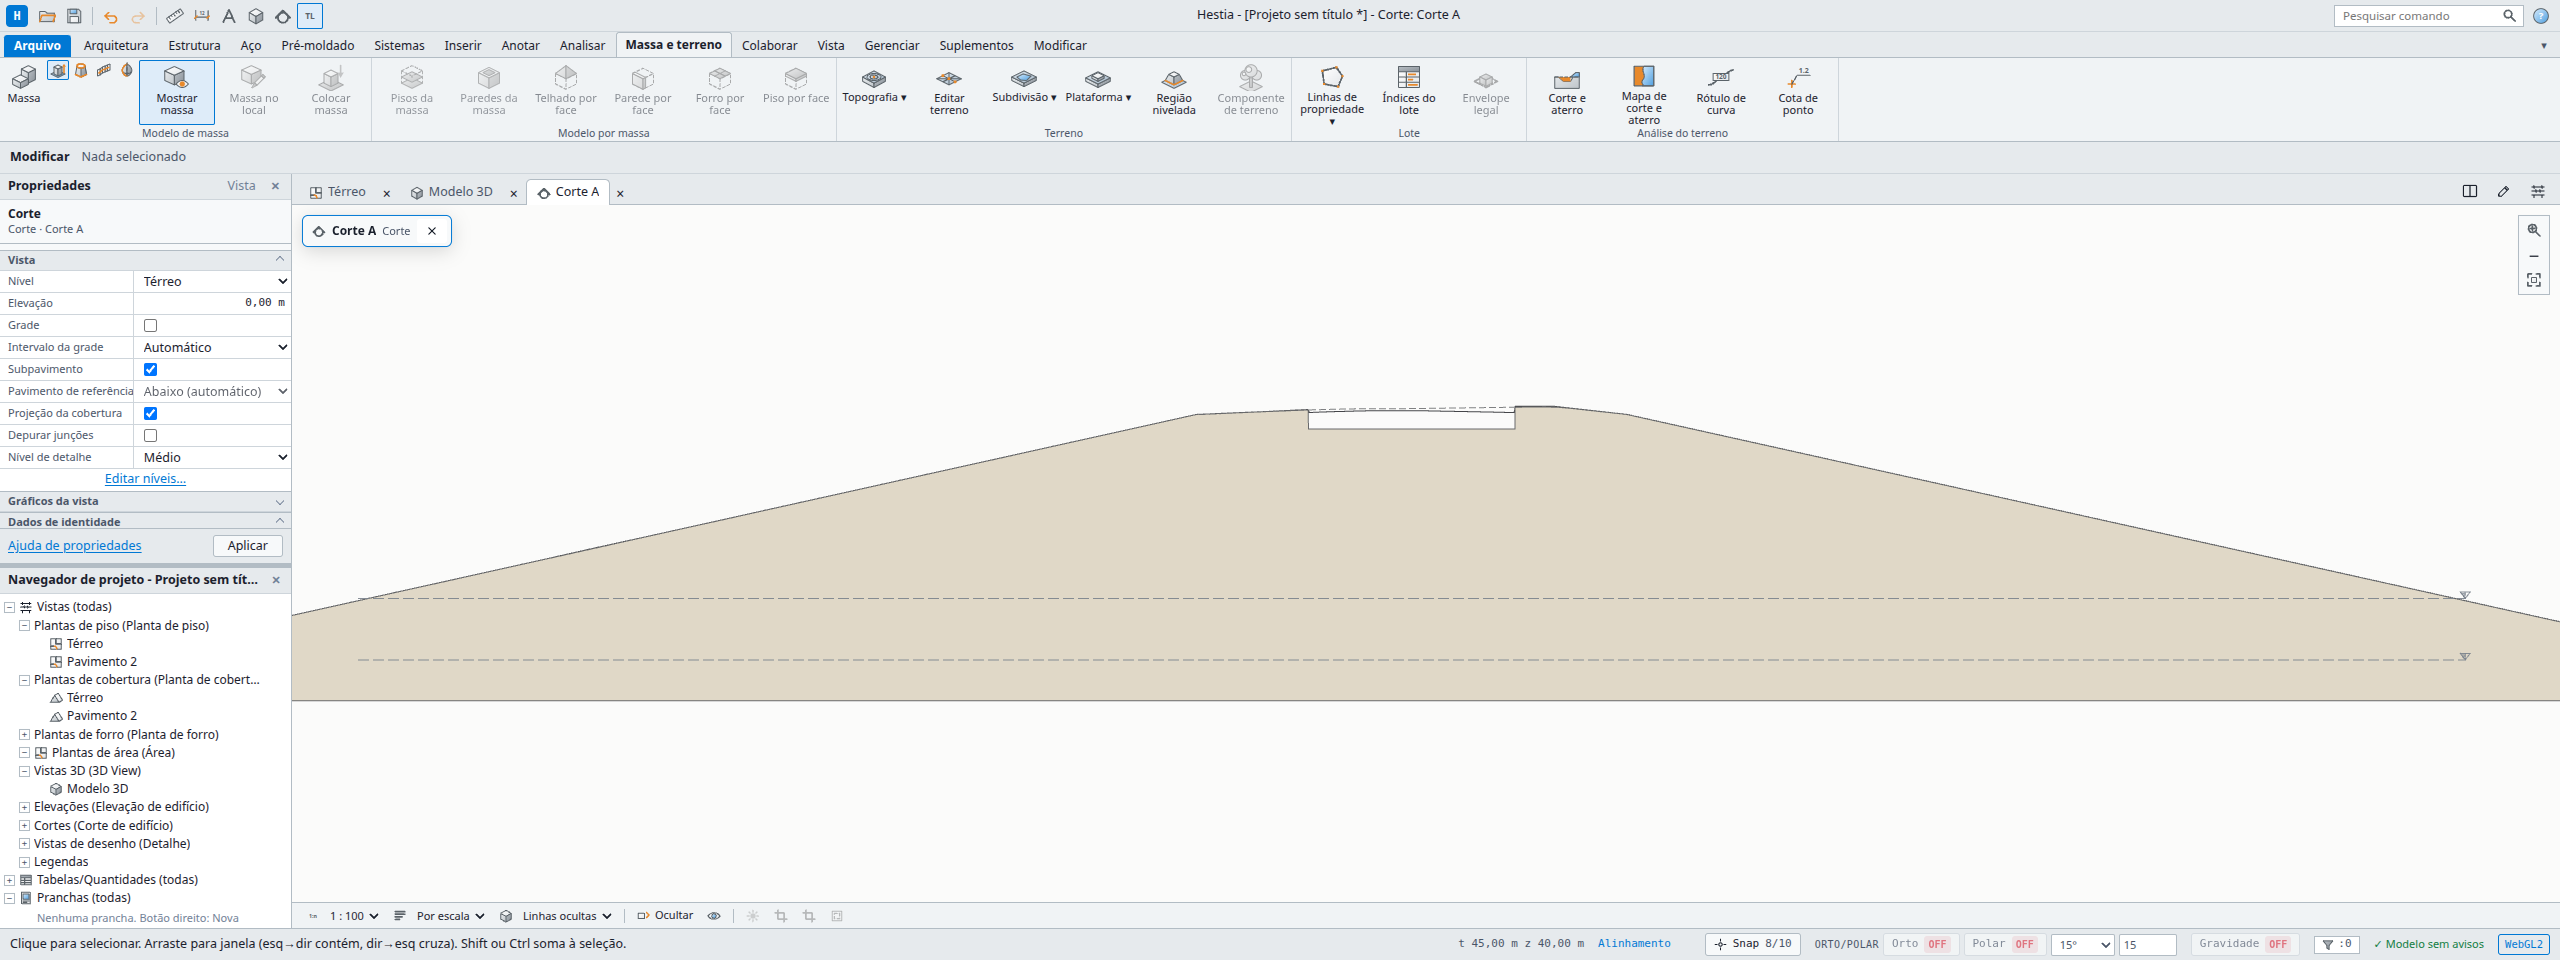
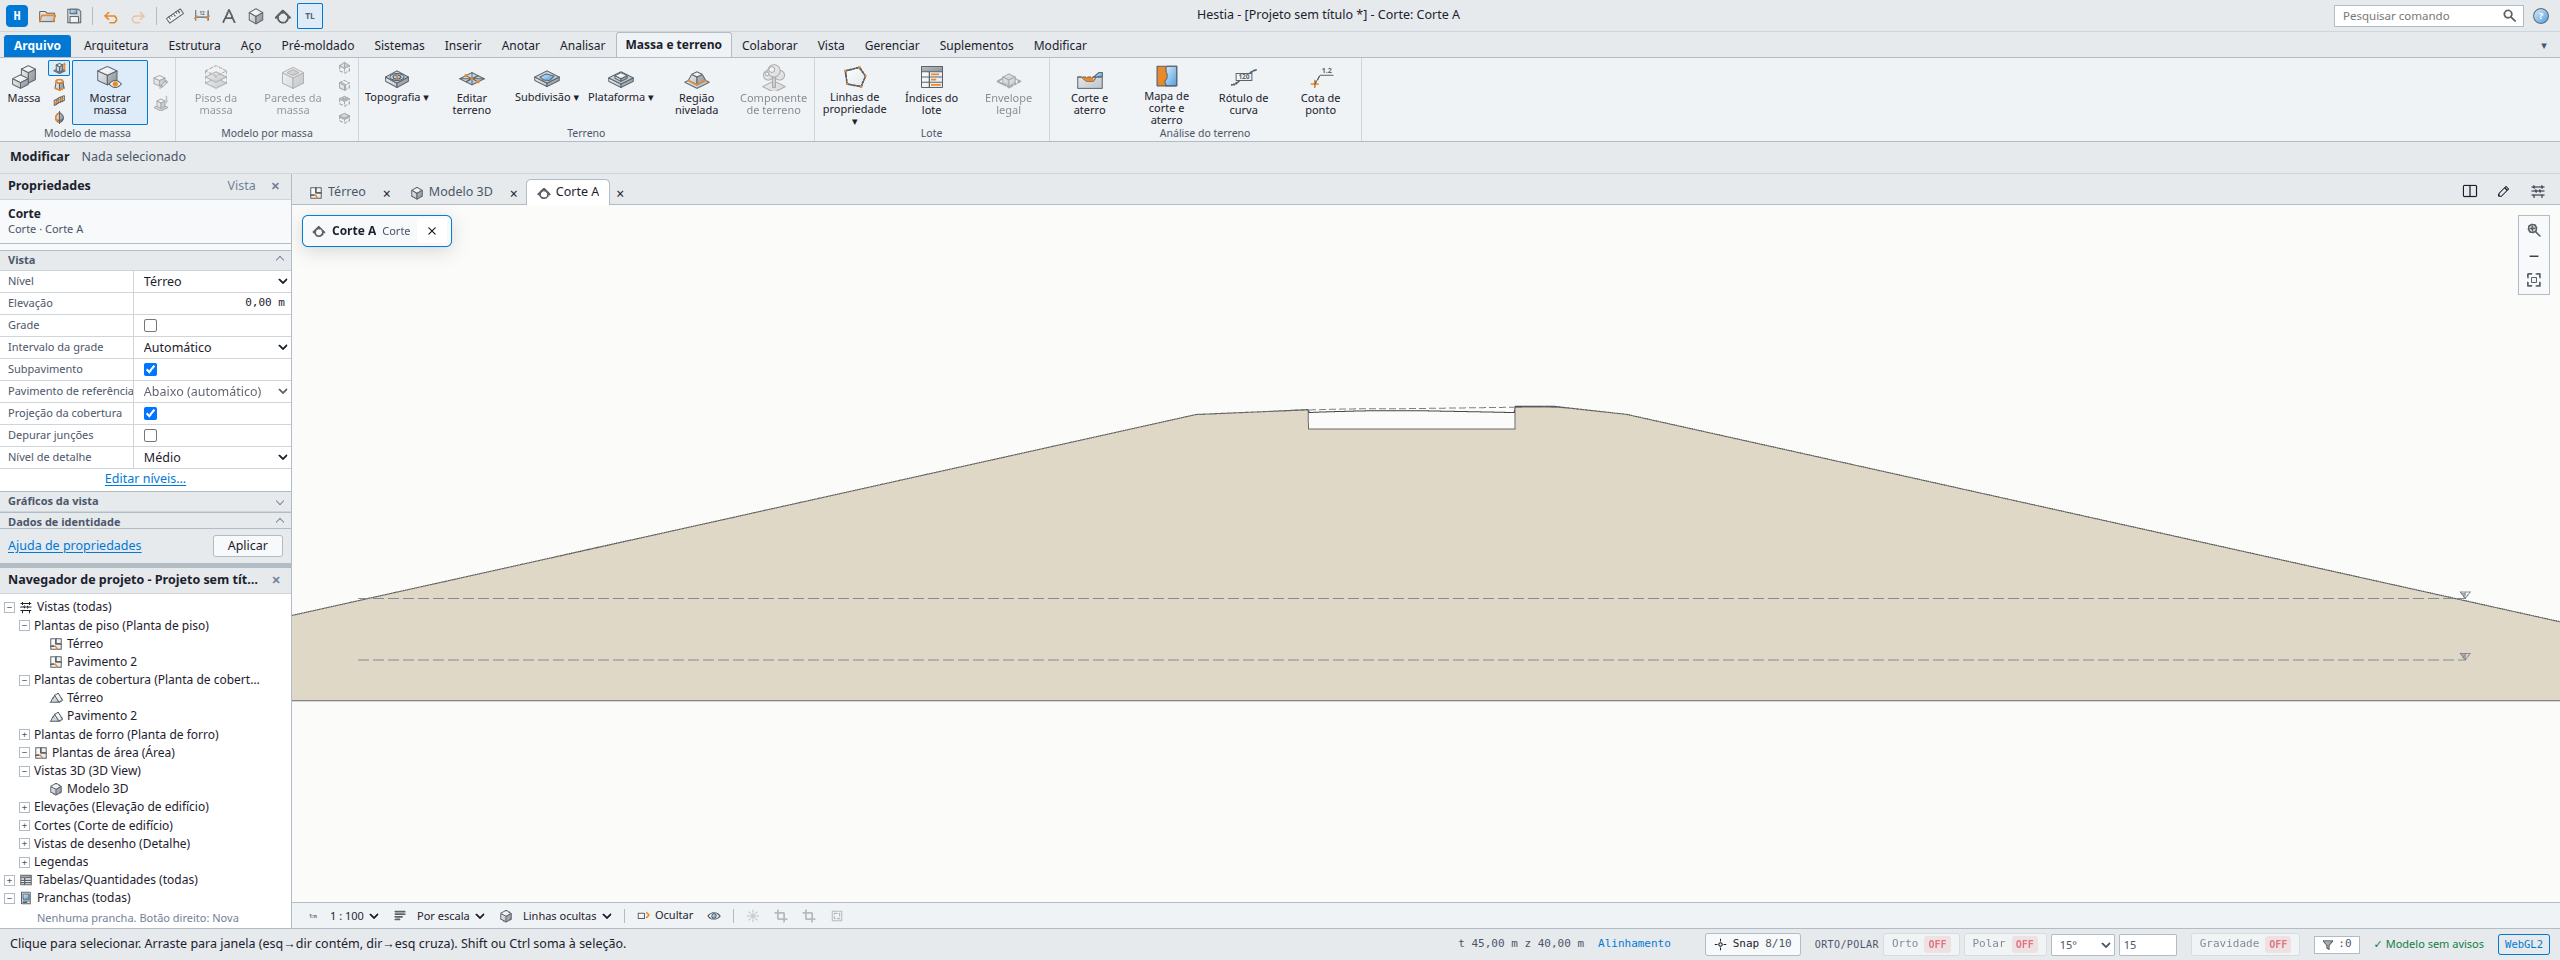
feat: botao Componente da aba Arquitetura abre o fluxo de blocos (importar ou colocar)

Changed region(s): [[0.0, 0.0625, 0.7188, 0.1562]]

diff --git a/apps/web/src/ui/ribbon/actions.ts b/apps/web/src/ui/ribbon/actions.ts
@@ -1,12 +1,13 @@
 /* eslint-disable max-lines -- a faixa concentra as ações pontuais (cada uma com rótulo bilíngue, dica e guarda); dividir depois. */
 import { definirMapaCorteAterro } from '@hestia/engine';
 import { copyLinkOf, isBeam, isCeiling, isColumn, isFloor, isFooting, isOpening, isRamp, isRoof, isRoom, isSlab, isStair, isTerrain, isWall, type Element, type Id, type Project, type Ramp, type Wall } from '@hestia/model';
-import { criarGuardaCorpoDeEscada, criarGuardaCorpoDeRampa, mensagensDeGuardaCorpo, placeFootingsAtColumns, TerrainRegionTool, type PerimeterModifyKind, type PredefinicaoRegiao, type ShortcutCommand, type ToolEnv, type ToolOptions } from '@hestia/tools';
+import { furnitureToPlace, criarGuardaCorpoDeEscada, criarGuardaCorpoDeRampa, mensagensDeGuardaCorpo, placeFootingsAtColumns, TerrainRegionTool, type PerimeterModifyKind, type PredefinicaoRegiao, type ShortcutCommand, type ToolEnv, type ToolOptions } from '@hestia/tools';
 import { t as translate, useI18n } from '../../editor/i18n.ts';
 import { numberOpeningMarks } from '../../editor/tagActions.ts';
 import { addMissingTagsAction } from '../../editor/areaPlanActions.ts';
 import { pedirAlerta } from '../../editor/alertaPrompt.ts';
 import { editor } from '../../editor/controller.ts';
+import { startPlacing } from '../../editor/furniture/actions.ts';
 import { createSimilarTarget, startCreateSimilar } from '../../editor/createSimilar.ts';
 import { resetDock, setDock } from '../../editor/dockActions.ts';
 import type { DockLayout, DockPanel, DockSide } from '../../editor/dockLayout.ts';
@@ -93,6 +94,19 @@ export interface ActionDef {
   pressed?: (c: RibbonCtx) => boolean;
   /** Devolve o motivo quando a ação não pode rodar agora; `false` quando pode. */
   disabled?: (c: RibbonCtx) => Txt | false;
+}
+
+/** Botão Componente (aba Arquitetura): mesmo fluxo de Inserir > Móveis. Sem blocos no projeto, abre a importação com aviso. */
+function placeComponent(): void {
+  const assets = Object.keys(editor.project.furniture?.assets ?? {});
+  if (assets.length === 0) {
+    useUi.setState({ dialog: 'importFurniture', dialogArg: null, status: { key: 'fur_component_empty' } });
+    return;
+  }
+  const pend = furnitureToPlace();
+  if (pend && assets.includes(pend)) startPlacing(pend);
+  else if (assets.length === 1) startPlacing(assets[0]!);
+  else useUi.setState({ dialog: 'importFurniture', dialogArg: 'blocks' });
 }
 
 const openDialog = (dialog: DialogKind, dialogArg: string | null = null): (() => void) => () => useUi.setState({ dialog, dialogArg });
@@ -484,6 +498,16 @@ export const ACTIONS: Record<ActionId, ActionDef> = {
     run: openDialog('importCad'),
   },
   importFurniture: { label: t('Importar móvel', 'Import furniture'), icon: 'open', hint: t('Traz um móvel 3D de um arquivo (.skp, .glb, .obj...) para o projeto.', 'Brings a 3D piece of furniture from a file (.skp, .glb, .obj...) into the project.'), run: openDialog('importFurniture') },
+  placeComponent: {
+    label: t('Componente', 'Component'),
+    icon: 'component',
+    hint: t(
+      'Coloca um bloco 3D importado (móvel, árvore, carro...). Os blocos vêm dos seus arquivos .skp, .glb, .obj...; sem nenhum no projeto, abre a importação.',
+      'Places an imported 3D block (furniture, tree, car...). Blocks come from your .skp, .glb, .obj... files; with none in the project, it opens the import dialog.',
+    ),
+    run: placeComponent,
+    disabled: (c) => (c.view === 'plan' || c.view === '3d' ? false : t('Só em planta e 3D (não vale em prancha nem em corte).', 'Only in plan and 3D (not on sheets or sections).')),
+  },
   myBlocks: { label: t('Meus blocos', 'My blocks'), icon: 'layers', hint: t('Lista os blocos do projeto para colocar mais cópias.', 'Lists the project blocks so you can place more copies.'), run: openDialog('importFurniture', 'blocks') },
   manageCad: {
     label: t('Gerenciar CAD', 'Manage CAD'),

diff --git a/apps/web/src/editor/i18n/areas/furniture.ts b/apps/web/src/editor/i18n/areas/furniture.ts
@@ -36,6 +36,7 @@ export const PT_FURNITURE = {
   fur_add_place: 'Adicionar e colocar',
   fur_adding: 'Adicionando…',
   fur_added: '{name} adicionado ao projeto.',
+  fur_component_empty: 'Nenhum bloco no projeto ainda: escolha o arquivo do móvel (.skp, .glb, .obj...) para importar.',
   fur_close: 'Fechar',
   fur_cancel: 'Cancelar',
   fur_blocks_empty: 'Nenhum bloco no projeto ainda. Use "Importar" para trazer um móvel.',
@@ -120,6 +121,7 @@ export const EN_FURNITURE: Record<keyof typeof PT_FURNITURE, string> = {
   fur_add_place: 'Add and place',
   fur_adding: 'Adding…',
   fur_added: '{name} added to the project.',
+  fur_component_empty: 'No blocks in the project yet: choose the furniture file (.skp, .glb, .obj...) to import.',
   fur_close: 'Close',
   fur_cancel: 'Cancel',
   fur_blocks_empty: 'No blocks in the project yet. Use "Import" to bring in a piece of furniture.',
@@ -204,6 +206,7 @@ export const ES_FURNITURE: Record<keyof typeof PT_FURNITURE, string> = {
   fur_add_place: 'Añadir y colocar',
   fur_adding: 'Añadiendo…',
   fur_added: '{name} añadido al proyecto.',
+  fur_component_empty: 'Aún no hay bloques en el proyecto: elija el archivo del mueble (.skp, .glb, .obj...) para importar.',
   fur_close: 'Cerrar',
   fur_cancel: 'Cancelar',
   fur_blocks_empty: 'Aún no hay bloques en el proyecto. Use "Importar" para traer un mueble.',
@@ -288,6 +291,7 @@ export const DE_FURNITURE: Record<keyof typeof PT_FURNITURE, string> = {
   fur_add_place: 'Hinzufügen und platzieren',
   fur_adding: 'Wird hinzugefügt…',
   fur_added: '{name} zum Projekt hinzugefügt.',
+  fur_component_empty: 'Noch keine Blöcke im Projekt: Wählen Sie die Möbeldatei (.skp, .glb, .obj...) zum Importieren.',
   fur_close: 'Schließen',
   fur_cancel: 'Abbrechen',
   fur_blocks_empty: 'Noch keine Blöcke im Projekt. Mit „Importieren“ ein Möbel hinzufügen.',
@@ -372,6 +376,7 @@ export const FR_FURNITURE: Record<keyof typeof PT_FURNITURE, string> = {
   fur_add_place: 'Ajouter et placer',
   fur_adding: 'Ajout…',
   fur_added: '{name} ajouté au projet.',
+  fur_component_empty: 'Aucun bloc dans le projet : choisissez le fichier du meuble (.skp, .glb, .obj...) à importer.',
   fur_close: 'Fermer',
   fur_cancel: 'Annuler',
   fur_blocks_empty: 'Aucun bloc dans le projet. Utilisez « Importer » pour ajouter un meuble.',
@@ -456,6 +461,7 @@ export const IT_FURNITURE: Record<keyof typeof PT_FURNITURE, string> = {
   fur_add_place: 'Aggiungi e posiziona',
   fur_adding: 'Aggiunta…',
   fur_added: '{name} aggiunto al progetto.',
+  fur_component_empty: "Nessun blocco nel progetto: scegliere il file dell'arredo (.skp, .glb, .obj...) da importare.",
   fur_close: 'Chiudi',
   fur_cancel: 'Annulla',
   fur_blocks_empty: 'Nessun blocco nel progetto. Usare "Importa" per aggiungere un arredo.',
@@ -540,6 +546,7 @@ export const PL_FURNITURE: Record<keyof typeof PT_FURNITURE, string> = {
   fur_add_place: 'Dodaj i umieść',
   fur_adding: 'Dodawanie…',
   fur_added: 'Dodano {name} do projektu.',
+  fur_component_empty: 'W projekcie nie ma jeszcze bloków: wybierz plik mebla (.skp, .glb, .obj...) do zaimportowania.',
   fur_close: 'Zamknij',
   fur_cancel: 'Anuluj',
   fur_blocks_empty: 'W projekcie nie ma jeszcze bloków. Użyj „Importuj”, aby dodać mebel.',

diff --git a/apps/web/src/ui/ribbon/componente.test.ts b/apps/web/src/ui/ribbon/componente.test.ts
@@ -1,0 +1,46 @@
+import { describe, expect, it } from 'vitest';
+import { ACTIONS, type RibbonCtx } from './actions.ts';
+import { txt } from './model.ts';
+import { TABS } from './tabs.ts';
+import { useUi } from '../../editor/state.ts';
+import { editor } from '../../editor/controller.ts';
+import { toolDisabledOnSheet } from './sheetTools.ts';
+import { buildAssetFromModel, initialMaterialEdits } from '../../editor/furniture/importModel.ts';
+import { boxModel } from '../../editor/furniture/testFixtures.ts';
+
+const arq = TABS.find((tb) => tb.id === 'arquitetura')!;
+const itens = arq.panels.find((p) => p.id === 'construir')!.items;
+
+describe('botão Componente da aba Arquitetura', () => {
+  it('é a ação placeComponent (não `soon`), com rótulo Componente', () => {
+    const it = itens.find((i) => i.kind === 'action' && i.action === 'placeComponent');
+    expect(it).toBeDefined();
+    expect(itens.some((i) => i.kind === 'soon' && txt(i.label, 'pt') === 'Componente')).toBe(false);
+    expect(txt(ACTIONS.placeComponent.label, 'pt')).toBe('Componente');
+    expect(ACTIONS.placeComponent.icon).toBe('component');
+    expect(txt(ACTIONS.placeComponent.hint!, 'pt')).toContain('arquivos .skp');
+  });
+
+  it('desativado com motivo em prancha e corte; ativo em planta e 3D', () => {
+    const d = (view: string) => ACTIONS.placeComponent.disabled!({ view } as unknown as RibbonCtx);
+    expect(d('plan')).toBe(false);
+    expect(d('3d')).toBe(false);
+    expect(txt(d('sheet') as never, 'pt')).toContain('planta e 3D');
+    expect(d('section')).not.toBe(false);
+    expect(toolDisabledOnSheet('sheet', 'furniture')).toBe(true);
+  });
+
+  it('sem blocos abre o diálogo Importar móvel com aviso; com 1 bloco ativa a ferramenta', () => {
+    editor.newProject('blank');
+    useUi.setState({ dialog: null, dialogArg: null, status: undefined });
+    ACTIONS.placeComponent.run();
+    expect(useUi.getState().dialog).toBe('importFurniture');
+    expect(useUi.getState().status).toEqual({ key: 'fur_component_empty' });
+    useUi.setState({ dialog: null, dialogArg: null });
+    const m = boxModel();
+    const asset = buildAssetFromModel(m, { name: 'Caixa', factor: 1, materials: initialMaterialEdits(m) });
+    editor.store.exec({ type: 'addFurnitureAsset', asset });
+    ACTIONS.placeComponent.run();
+    expect(useUi.getState().tool).toBe('furniture');
+  });
+});

diff --git a/apps/web/src/ui/ribbon/tabsMain.ts b/apps/web/src/ui/ribbon/tabsMain.ts
@@ -15,7 +15,7 @@ export const TAB_ARQUITETURA: RibbonTab = {
       // Porta e janela na cortina ficam no menu das esquadrias (o mesmo ícone), como o Revit tem a porta de cortina.
       split(tool('door'), [tool('curtainDoor', 'small', { icon: 'door' })]),
       split(tool('window'), [tool('curtainWindow', 'small', { icon: 'window' }), tool('curtainGridLine', 'small', { icon: 'grid' })]),
-      soon(t('Componente', 'Component'), 'component'),
+      act('placeComponent', 'large'),
       soon(t('Pilar', 'Column'), 'column'),
       split(tool('roof', 'large', { label: t('Telhado', 'Roof'), icon: 'roof' }), [
         tool('roof', 'small', { label: t('Telhado por perímetro', 'Roof by Footprint') }),

diff --git a/apps/web/src/ui/ribbon/model.ts b/apps/web/src/ui/ribbon/model.ts
@@ -29,7 +29,7 @@ export type ActionId =
   | 'terrenoPontos' | 'terrenoCurvas' | 'importTerreno' | 'editTerreno' | 'localizacao'
   | 'regiaoSubdivisao' | 'regiaoPlataforma' | 'regiaoPlataformaElemento' | 'regiaoNivelada'
   | 'corteAterro' | 'mapaCorteAterro'
-  | 'loteDesenhar' | 'lotePorTabela' | 'indicesLote' | 'importFurniture' | 'myBlocks';
+  | 'loteDesenhar' | 'lotePorTabela' | 'indicesLote' | 'importFurniture' | 'myBlocks' | 'placeComponent';
 
 export type RibbonItem =
   /** Ferramenta do editor: o clique chama `editor.setTool`; mostra o atalho no tooltip. */
